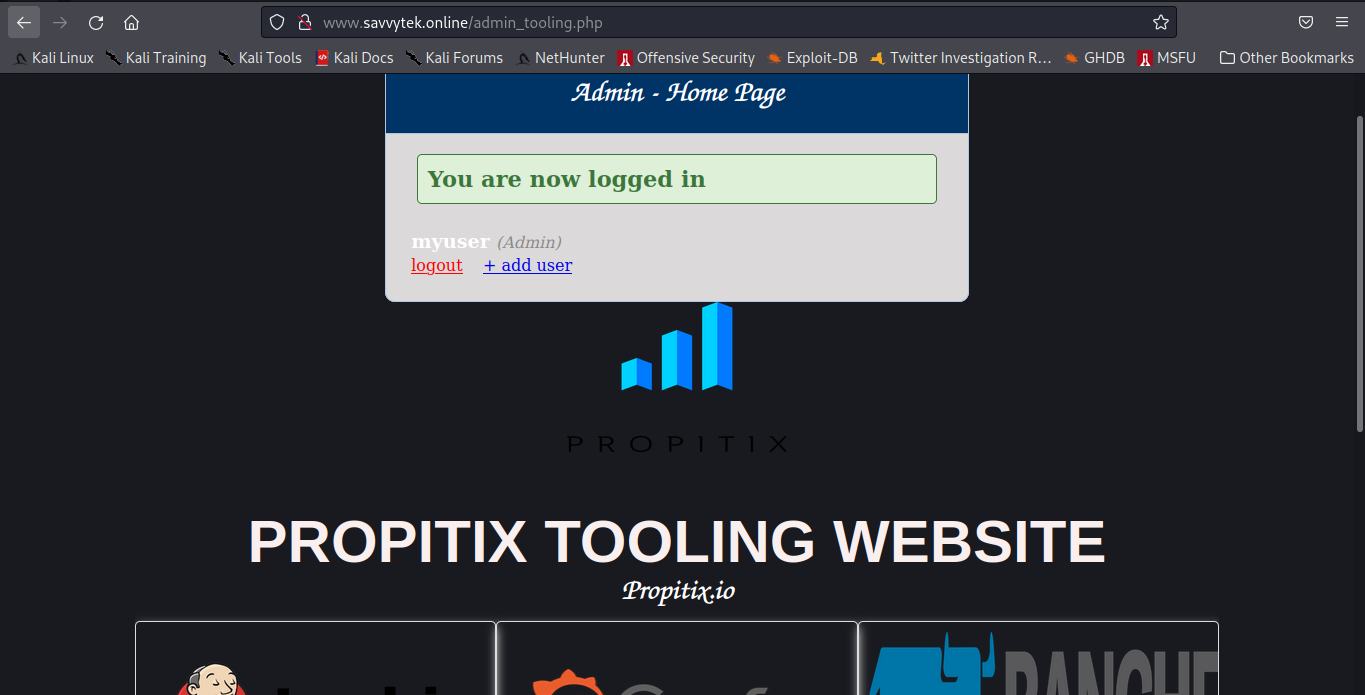
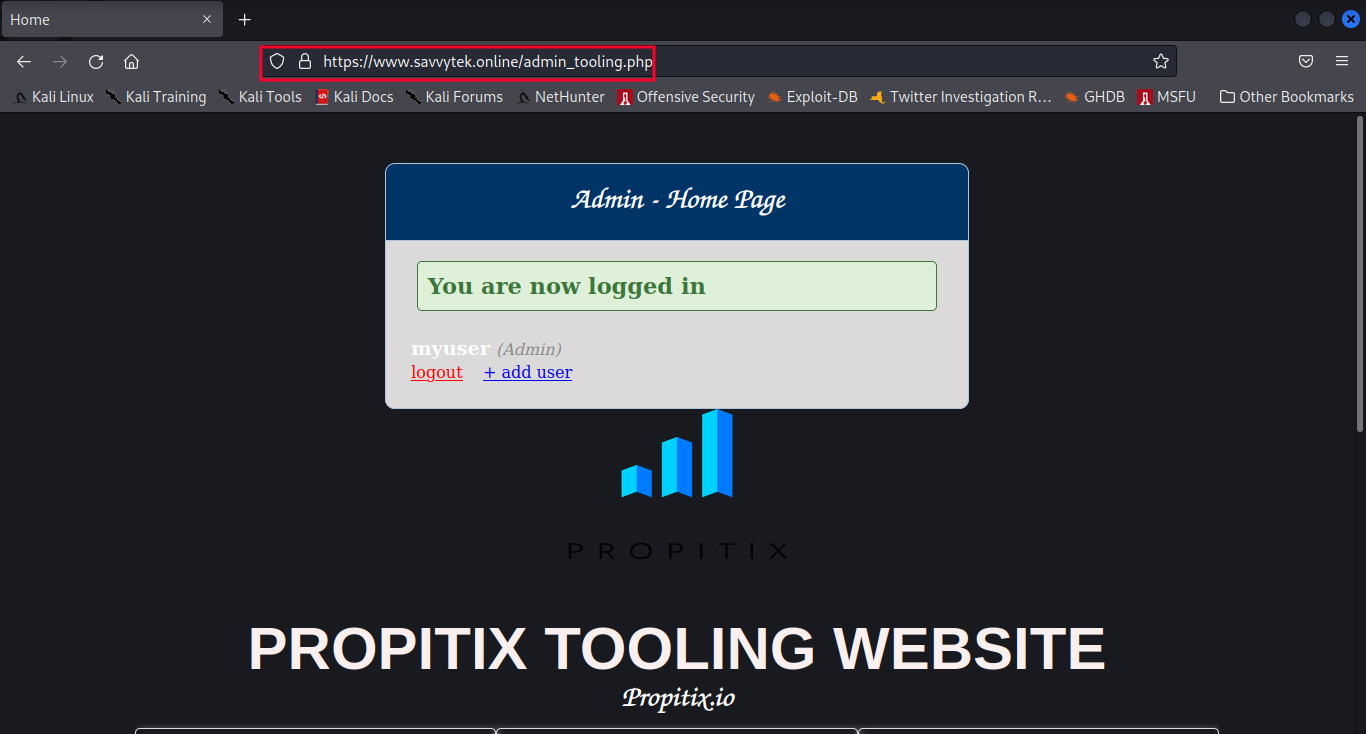
modified readmefile and added images

diff --git a/README.md b/README.md
@@ -79,13 +79,19 @@ In order to get a valid SSL certificate – you need to register a new domain na
 
 * Check that your Web Servers can be reached from your browser using new domain name using HTTP protocol – `http://<your-domain-name.com>`
 
+  ![savvytek](./images/savvytech%20online.png)
+
 * Configure Nginx to recognize your new domain name. Update your nginx.conf with server_name www.<your-domain-name.com> instead of server_name www.domain.com.
+
+  ![nginx config](./images/nginx%20config%20edit.png)
 
 * Install [certbot](https://certbot.eff.org/) and request for an SSL/TLS certificate. Before installing certbot, make sure snapd service is active and running.
   `sudo systemctl status snapd`
   * Install certbot
 
-      `sudo snap install --classic certbot`
+     `sudo snap install --classic certbot`
+
+     ![certbot](./images/certbot%20ssl.png)
 
 * Request your certificate (just follow the certbot instructions – you will need to choose which domain you want your certificate to be issued for, domain name will be looked up from nginx.conf file.
 
@@ -95,7 +101,40 @@ In order to get a valid SSL certificate – you need to register a new domain na
 * Test secured access to your Web Solution by trying to reach https://<your-domain-name.com>
 You shall be able to access your website by using HTTPS protocol (that uses TCP port 443).
 
-* You can click on the padlock icon to see the details of the certificate issued for your website
+  ![savvytek](./images/savvytek%20online%20https.png)
+
+* You can click on the padlock icon to see the details of the certificate issued for your website.
+
+* Set up periodical renewal of your SSL/TLS certificate. By default, LetsEncrypt certificate is valid for 90 days, so it is recommended to renew it at least every 60 days or more frequently.
+You can test renewal command in dry-run mode.
+`sudo certbot renew --dry-run`
+Best pracice is to have a scheduled job that wil run renew command periodically. Let us configure a cronjob to run the command twice a day.
+To do so, we edit the crontab file with the following command:
+
+    `crontab -e`
+
+  Add following line:
+
+  `* */12 * * *   root /usr/bin/certbot renew > /dev/null 2>&1`
+
+  ![cron](./images/crontab.png)
+  ![cron](./images/crontab%20config.png)
+
+
+* This schdeules the cronjob to run every 12 hours, that is twice everyday.
+
+* You can always change the interval of this cronjob if twice a day is too often by adjusting schedule expression.
+
+* You can log into your website using the username and password set in previious projects.
+
+  ![done](./images/logged%20in.png)
+
+----------
+### Congratulations!!! 
+You have just implemented an Nginx Load Balancing Web Solution with secured HTTPS connection with periodically updated SSL/TLS certificates.
+
+
+
 
 
 
